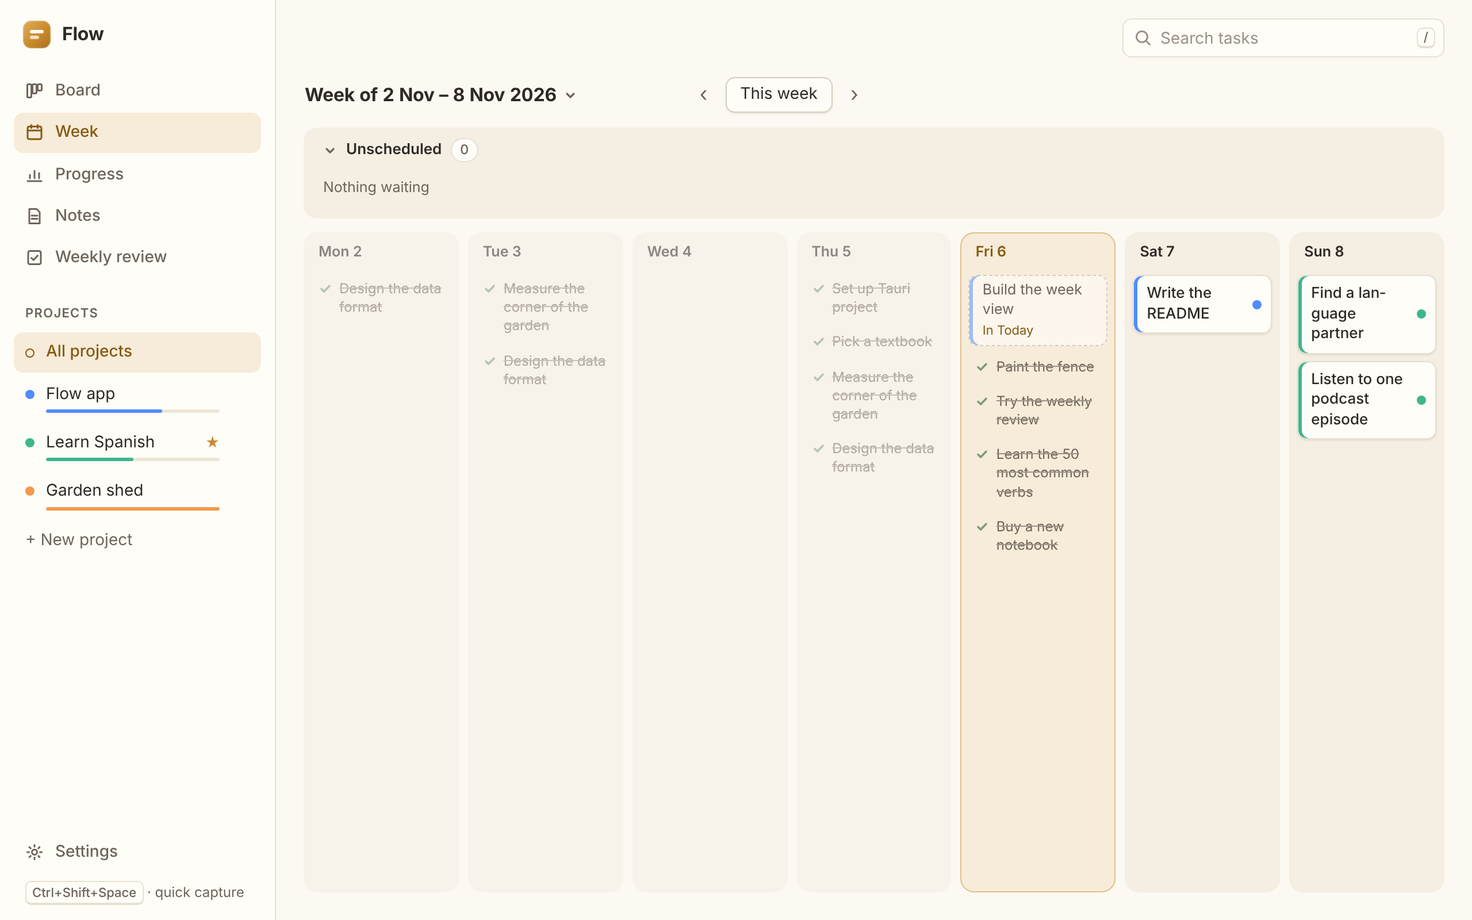
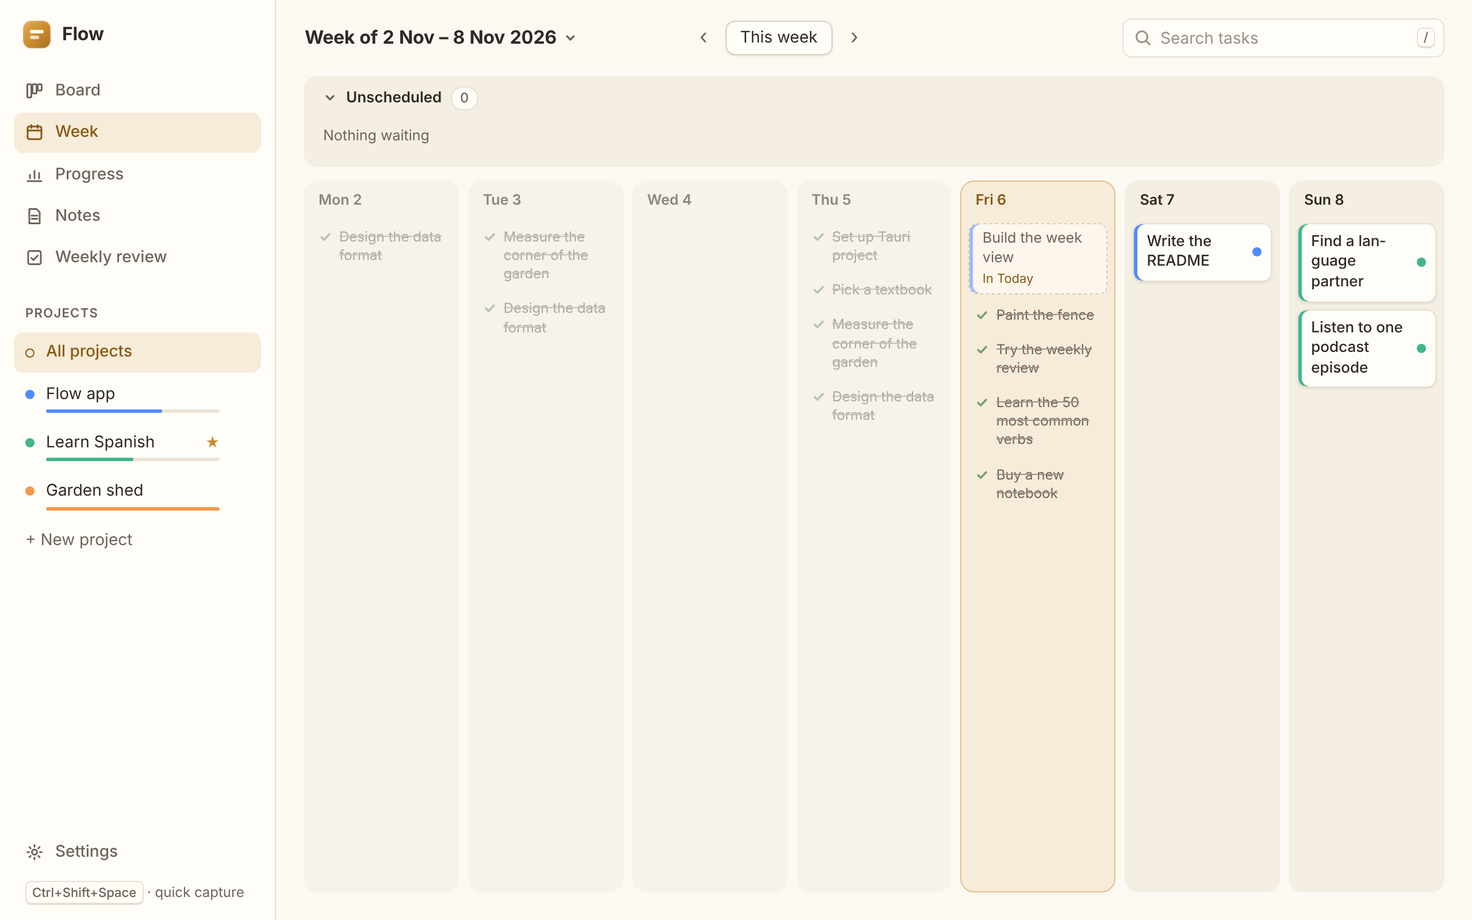
v0.2.9: week header in the top bar; full-size weekly review
The Week view's header (title with month picker, prev/This week/next) now
portals into the top bar's left slot on the search box's row, giving the week
board more height; the arrows still never move. The weekly review card fills
the main area: step 1's day boxes grow (lists scroll inside), step 2 uses a
responsive grid, steps 3-4 stay readable (max 900px), Back + Next sit together
at the bottom-right.

Claude-Session: https://claude.ai/code/session_01Voacjw55tMHdZutBvqAuuX

diff --git a/src/ui/WeekView.test.tsx b/src/ui/WeekView.test.tsx
@@ -51,6 +51,9 @@ const taskOf = (store: MemoryFileStore, path: string, id: string) => {
 
 afterEach(() => vi.useRealTimers())
 
+/** The week header (title + ‹ This week ›), which sits in the shell's top bar. */
+const head = () => within(screen.getByRole('group', { name: 'Week navigation' }))
+
 describe('promotion of scheduled tasks', () => {
   it('on load moves a task scheduled yesterday into Today, clears the date and writes once', async () => {
     const files = seed()
@@ -254,7 +257,7 @@ describe('Week view', () => {
 
   it('shows the week, today marked, scheduled and done tasks, and the Unscheduled tray', async () => {
     const { view } = await open()
-    expect(view.getByRole('heading', { name: 'Week of 2 Nov – 8 Nov 2026' })).toBeInTheDocument()
+    expect(head().getByRole('heading', { name: 'Week of 2 Nov – 8 Nov 2026' })).toBeInTheDocument()
     const days = ['Mon 2 Nov', 'Tue 3 Nov', 'Wed 4 Nov', 'Thu 5 Nov', 'Fri 6 Nov', 'Sat 7 Nov', 'Sun 8 Nov']
     for (const d of days) expect(view.getByRole('region', { name: d })).toBeInTheDocument()
     const wed = view.getByRole('region', { name: 'Wed 4 Nov' })
@@ -273,14 +276,29 @@ describe('Week view', () => {
 
   it('navigates to previous and next weeks and back to this week', async () => {
     const { user, view } = await open()
-    await user.click(view.getByRole('button', { name: 'Next week' }))
-    expect(view.getByRole('heading', { name: 'Week of 9 Nov – 15 Nov 2026' })).toBeInTheDocument()
+    await user.click(head().getByRole('button', { name: 'Next week' }))
+    expect(head().getByRole('heading', { name: 'Week of 9 Nov – 15 Nov 2026' })).toBeInTheDocument()
     expect(view.queryByRole('region', { name: 'Wed 4 Nov' })).not.toBeInTheDocument()
-    await user.click(view.getByRole('button', { name: 'Previous week' }))
-    await user.click(view.getByRole('button', { name: 'Previous week' }))
-    expect(view.getByRole('heading', { name: 'Week of 26 Oct – 1 Nov 2026' })).toBeInTheDocument()
-    await user.click(view.getByRole('button', { name: 'This week' }))
-    expect(view.getByRole('heading', { name: 'Week of 2 Nov – 8 Nov 2026' })).toBeInTheDocument()
+    await user.click(head().getByRole('button', { name: 'Previous week' }))
+    await user.click(head().getByRole('button', { name: 'Previous week' }))
+    expect(head().getByRole('heading', { name: 'Week of 26 Oct – 1 Nov 2026' })).toBeInTheDocument()
+    await user.click(head().getByRole('button', { name: 'This week' }))
+    expect(head().getByRole('heading', { name: 'Week of 2 Nov – 8 Nov 2026' })).toBeInTheDocument()
+  })
+
+  it('puts the week header in the top bar, on the search box\'s line, outside the Week region', async () => {
+    const { view } = await open()
+    const group = screen.getByRole('group', { name: 'Week navigation' })
+    expect(view.queryByRole('group', { name: 'Week navigation' })).toBeNull()
+    const bar = group.closest('.topbar') as HTMLElement
+    expect(bar).not.toBeNull()
+    expect(within(bar).getByRole('searchbox')).toBeInTheDocument()
+    expect(group.compareDocumentPosition(within(bar).getByRole('searchbox')) & Node.DOCUMENT_POSITION_FOLLOWING).toBeTruthy()
+    expect(within(group).getByRole('heading', { level: 2, name: 'Week of 2 Nov – 8 Nov 2026' })).toBeInTheDocument()
+    const nav = within(screen.getByRole('navigation', { name: 'Sidebar' }))
+    const userEv = userEvent.setup()
+    await userEv.click(nav.getByRole('button', { name: 'Board' }))
+    expect(screen.queryByRole('group', { name: 'Week navigation' })).toBeNull()
   })
 
   it("today's column also shows what is in Today, muted and labelled", async () => {
@@ -427,14 +445,14 @@ describe('Week month picker', () => {
     await screen.findByText('Buy a book')
     await user.keyboard('w')
     const view = within(await screen.findByRole('region', { name: 'Week' }))
-    const title = view.getByRole('button', { name: 'Week of 2 Nov – 8 Nov 2026' })
+    const title = head().getByRole('button', { name: 'Week of 2 Nov – 8 Nov 2026' })
     return { user, view, title }
   }
   const picker = () => screen.queryByRole('dialog', { name: 'Choose month' })
 
   it('the week title is a button that opens and closes the picker', async () => {
-    const { user, view, title } = await open()
-    expect(view.getByRole('heading', { name: 'Week of 2 Nov – 8 Nov 2026' })).toContainElement(title)
+    const { user, title } = await open()
+    expect(head().getByRole('heading', { name: 'Week of 2 Nov – 8 Nov 2026' })).toContainElement(title)
     expect(title).toHaveAttribute('aria-haspopup', 'dialog')
     expect(title).toHaveAttribute('aria-expanded', 'false')
     expect(picker()).toBeNull()
@@ -451,12 +469,12 @@ describe('Week month picker', () => {
   })
 
   it('highlights the shown week\'s month and marks today\'s month; focus starts on the shown month', async () => {
-    const { user, view, title } = await open()
-    await user.click(view.getByRole('button', { name: 'Next week' }))
-    await user.click(view.getByRole('button', { name: 'Next week' }))
-    await user.click(view.getByRole('button', { name: 'Next week' }))
-    await user.click(view.getByRole('button', { name: 'Next week' })) // 30 Nov – 6 Dec: contains 1 Dec
-    await user.click(view.getByRole('button', { name: 'Week of 30 Nov – 6 Dec 2026' }))
+    const { user, title } = await open()
+    await user.click(head().getByRole('button', { name: 'Next week' }))
+    await user.click(head().getByRole('button', { name: 'Next week' }))
+    await user.click(head().getByRole('button', { name: 'Next week' }))
+    await user.click(head().getByRole('button', { name: 'Next week' })) // 30 Nov – 6 Dec: contains 1 Dec
+    await user.click(head().getByRole('button', { name: 'Week of 30 Nov – 6 Dec 2026' }))
     const dlg = within(picker()!)
     const dec = dlg.getByRole('button', { name: 'December 2026' })
     expect(dec).toHaveAttribute('aria-current', 'true')
@@ -487,23 +505,23 @@ describe('Week month picker', () => {
     await user.click(within(picker()!).getByRole('button', { name: 'Next year' }))
     await user.click(within(picker()!).getByRole('button', { name: 'March 2027' }))
     expect(picker()).toBeNull()
-    const t = view.getByRole('button', { name: 'Week of 1 Mar – 7 Mar 2027' })
+    const t = head().getByRole('button', { name: 'Week of 1 Mar – 7 Mar 2027' })
     expect(t).toHaveFocus()
     expect(view.getByRole('region', { name: 'Mon 1 Mar' })).toBeInTheDocument()
     // Prev/next and This week still work from there.
-    await user.click(view.getByRole('button', { name: 'Previous week' }))
-    expect(view.getByRole('heading', { name: 'Week of 22 Feb – 28 Feb 2027' })).toBeInTheDocument()
-    await user.click(view.getByRole('button', { name: 'This week' }))
-    expect(view.getByRole('heading', { name: 'Week of 2 Nov – 8 Nov 2026' })).toBeInTheDocument()
+    await user.click(head().getByRole('button', { name: 'Previous week' }))
+    expect(head().getByRole('heading', { name: 'Week of 22 Feb – 28 Feb 2027' })).toBeInTheDocument()
+    await user.click(head().getByRole('button', { name: 'This week' }))
+    expect(head().getByRole('heading', { name: 'Week of 2 Nov – 8 Nov 2026' })).toBeInTheDocument()
   })
 
   it('a month whose 1st is a Sunday shows the week ending on it', async () => {
-    const { user, view, title } = await open()
+    const { user, title } = await open()
     await user.click(title)
     await user.click(within(picker()!).getByRole('button', { name: 'Previous year' })) // 2025
     await user.click(within(picker()!).getByRole('button', { name: 'June 2025' })) // Sun 1 Jun 2025
-    expect(view.getByRole('heading', { name: 'Week of 26 May – 1 Jun 2025' })).toBeInTheDocument()
-    await user.click(view.getByRole('button', { name: 'Week of 26 May – 1 Jun 2025' }))
+    expect(head().getByRole('heading', { name: 'Week of 26 May – 1 Jun 2025' })).toBeInTheDocument()
+    await user.click(head().getByRole('button', { name: 'Week of 26 May – 1 Jun 2025' }))
     expect(within(picker()!).getByRole('button', { name: 'June 2025' })).toHaveAttribute('aria-current', 'true')
   })
 
@@ -514,16 +532,16 @@ describe('Week month picker', () => {
     await user.keyboard('{Escape}')
     expect(picker()).toBeNull()
     expect(title).toHaveFocus()
-    expect(view.getByRole('heading', { name: 'Week of 2 Nov – 8 Nov 2026' })).toBeInTheDocument()
+    expect(head().getByRole('heading', { name: 'Week of 2 Nov – 8 Nov 2026' })).toBeInTheDocument()
     expect(screen.getByRole('region', { name: 'Week' })).toBeInTheDocument()
     await user.click(title)
     await user.click(view.getByRole('region', { name: 'Mon 2 Nov' }))
     expect(picker()).toBeNull()
-    expect(view.getByRole('heading', { name: 'Week of 2 Nov – 8 Nov 2026' })).toBeInTheDocument()
+    expect(head().getByRole('heading', { name: 'Week of 2 Nov – 8 Nov 2026' })).toBeInTheDocument()
   })
 
   it('keyboard: arrows move between months (across years), Enter and Space choose', async () => {
-    const { user, view, title } = await open()
+    const { user, title } = await open()
     await user.click(title)
     const dlg = within(picker()!)
     expect(dlg.getByRole('button', { name: 'November 2026' })).toHaveFocus()
@@ -537,15 +555,15 @@ describe('Week month picker', () => {
     expect(dlg.getByRole('button', { name: 'March 2027' })).toHaveFocus()
     expect(dlg.getByText('2027')).toBeInTheDocument()
     await user.keyboard('{Enter}')
-    expect(view.getByRole('heading', { name: 'Week of 1 Mar – 7 Mar 2027' })).toBeInTheDocument()
-    const t2 = view.getByRole('button', { name: 'Week of 1 Mar – 7 Mar 2027' })
+    expect(head().getByRole('heading', { name: 'Week of 1 Mar – 7 Mar 2027' })).toBeInTheDocument()
+    const t2 = head().getByRole('button', { name: 'Week of 1 Mar – 7 Mar 2027' })
     expect(t2).toHaveFocus()
     await user.keyboard('{Enter}') // reopens from the title
     expect(within(picker()!).getByRole('button', { name: 'March 2027' })).toHaveFocus()
     await user.keyboard('{ArrowLeft}{ArrowLeft}{ArrowLeft}')
     expect(within(picker()!).getByRole('button', { name: 'December 2026' })).toHaveFocus()
     await user.keyboard(' ')
-    expect(view.getByRole('heading', { name: 'Week of 30 Nov – 6 Dec 2026' })).toBeInTheDocument()
+    expect(head().getByRole('heading', { name: 'Week of 30 Nov – 6 Dec 2026' })).toBeInTheDocument()
   })
 
   it('Tab cycles inside the picker', async () => {

diff --git a/src/ui/board.css b/src/ui/board.css
@@ -654,24 +654,30 @@ input.quick-capture, input.quick-capture:focus {
 .week-done.is-overlay { background: var(--surface); border-radius: var(--radius-md); }
 
 /* ---------- Weekly review ---------- */
-.review-view { flex: 1; min-height: 0; overflow-y: auto; display: flex; justify-content: center; align-items: flex-start; padding: var(--space-4) 2px; }
-.review-card { width: 100%; max-width: 720px; background: var(--surface); border: 1px solid var(--border); border-radius: var(--radius-lg); box-shadow: var(--shadow-sm); padding: var(--space-5) var(--space-6); }
+/* The card fills the main area (the view's padding around it); long steps scroll the view. */
+.review-view { flex: 1; min-height: 0; overflow-y: auto; display: flex; flex-direction: column; padding: var(--space-2) 2px 2px; }
+.review-card {
+  flex: 1 0 auto; display: flex; flex-direction: column; width: 100%;
+  background: var(--surface); border: 1px solid var(--border); border-radius: var(--radius-lg); box-shadow: var(--shadow-sm); padding: var(--space-5) var(--space-6);
+}
 .review-steps { list-style: none; margin: 0 0 var(--space-5); padding: 0; display: flex; flex-wrap: wrap; gap: var(--space-2) var(--space-4); font-size: 12px; color: var(--text-muted); }
 .review-steps li { display: flex; align-items: center; gap: 6px; }
 .review-step-no { display: inline-grid; place-items: center; width: 20px; height: 20px; border-radius: 50%; border: 1px solid var(--border-strong); font-size: 11px; }
 .review-steps .is-past { color: var(--text-muted); }
 .review-steps .is-current { color: var(--accent-text); font-weight: 600; }
 .review-steps .is-current .review-step-no { background: var(--accent-strong); border-color: var(--accent-strong); color: var(--on-accent); }
-.review-body { min-height: 260px; }
+.review-body { flex: 1 0 auto; min-height: 260px; display: flex; flex-direction: column; }
+/* Text stays readable on a wide card; the day boxes (step 1) and the task grid (step 2) use the width. */
+.review-step-3, .review-step-4 { max-width: 900px; }
 .review-body h2 { margin: 0 0 var(--space-3); font-size: 18px; font-weight: 600; }
 .review-summary { margin: 0 0 var(--space-4); color: var(--text-muted); }
 .review-empty { color: var(--text-muted); }
-.review-days { display: grid; grid-template-columns: repeat(7, minmax(0, 1fr)); gap: var(--space-2); }
-.review-day { background: var(--surface-2); border-radius: var(--radius-md); padding: var(--space-2) var(--space-3); min-height: 96px; }
-.review-day-head { display: flex; justify-content: space-between; font-size: 12px; font-weight: 600; margin-bottom: var(--space-1); }
-.review-day ul { list-style: none; margin: 0; padding: 0; display: flex; flex-direction: column; gap: 2px; }
-.review-day li { font-size: 12px; line-height: 1.35; overflow-wrap: anywhere; }
-.review-rows { list-style: none; margin: 0; padding: 0; display: flex; flex-direction: column; gap: var(--space-3); }
+.review-days { flex: 1 1 0; min-height: 240px; display: grid; grid-template-columns: repeat(7, minmax(0, 1fr)); grid-template-rows: minmax(0, 1fr); gap: var(--space-2); }
+.review-day { background: var(--surface-2); border-radius: var(--radius-md); padding: var(--space-2) var(--space-3); min-height: 0; display: flex; flex-direction: column; }
+.review-day-head { display: flex; justify-content: space-between; font-size: 13px; font-weight: 600; margin-bottom: var(--space-1); }
+.review-day ul { flex: 1; min-height: 0; overflow-y: auto; list-style: none; margin: 0; padding: 0; display: flex; flex-direction: column; gap: 4px; }
+.review-day li { font-size: 13px; line-height: 1.4; overflow-wrap: anywhere; }
+.review-rows { list-style: none; margin: 0; padding: 0; display: grid; grid-template-columns: repeat(auto-fill, minmax(min(100%, 380px), 1fr)); align-items: start; gap: var(--space-3); }
 .review-row { background: var(--surface-2); border-radius: var(--radius-md); padding: var(--space-3); }
 .review-row-title { display: flex; align-items: center; gap: var(--space-2); margin-bottom: var(--space-2); }
 .review-project { margin-left: auto; font-size: 12px; color: var(--text-muted); }
@@ -680,15 +686,15 @@ input.quick-capture, input.quick-capture:focus {
 .review-row-actions .btn[aria-pressed="true"] { background: var(--accent-soft); border-color: var(--accent); color: var(--accent-text); }
 .review-delete { color: var(--danger); }
 .review-outcome { margin-top: var(--space-2); font-size: 12px; color: var(--text-muted); }
-.review-focus { border: 0; margin: 0 0 var(--space-4); padding: 0; display: flex; flex-direction: column; gap: var(--space-2); }
+.review-focus { border: 0; margin: 0 0 var(--space-4); padding: 0; display: grid; grid-template-columns: repeat(auto-fill, minmax(200px, 1fr)); gap: var(--space-1) var(--space-2); }
 .review-focus legend { padding: 0; margin-bottom: var(--space-2); font-size: 12px; color: var(--text-muted); }
 .review-option { display: flex; align-items: center; gap: var(--space-2); padding: 6px var(--space-3); border-radius: var(--radius-md); cursor: pointer; }
 .review-option:hover { background: var(--surface-2); }
 .review-field { display: flex; flex-direction: column; gap: 6px; font-size: 12px; color: var(--text-muted); }
 .review-field input { font-size: 14px; padding: var(--space-2) var(--space-3); }
-.review-reflection { width: 100%; min-height: 180px; resize: vertical; font: inherit; line-height: 1.5; padding: var(--space-3); }
+.review-reflection { width: 100%; flex: 1 0 180px; min-height: 180px; max-height: 60vh; resize: vertical; font: inherit; line-height: 1.5; padding: var(--space-3); }
 .review-ai { display: flex; flex-wrap: wrap; align-items: center; gap: var(--space-2); margin-top: var(--space-3); }
-.review-nav { display: flex; justify-content: space-between; margin-top: var(--space-5); }
+.review-nav { display: flex; justify-content: flex-end; gap: var(--space-2); margin-top: var(--space-5); }
 .focus-star { margin-left: 4px; color: var(--accent); font-size: 12px; }
 .review-hint { margin: 0 0 var(--space-3); font-size: 12px; color: var(--text-muted); }
 .progress-ai { margin-top: 0; }

diff --git a/src/ui/WeekView.tsx b/src/ui/WeekView.tsx
@@ -1,4 +1,5 @@
 import { useRef, useState, type CSSProperties } from 'react'
+import { createPortal } from 'react-dom'
 import {
   DndContext, DragOverlay, PointerSensor, useDraggable, useDroppable, useSensor, useSensors,
   type DragEndEvent, type DragStartEvent,
@@ -223,9 +224,14 @@ interface Props {
   /** Whether the Unscheduled drawer shows its cards (local setting `weekTrayOpen`). */
   trayOpen?: boolean
   onToggleTray?: () => void
+  /**
+   * Where the week header (title + ‹ This week ›) goes: the shell's top bar, on the search box's
+   * line. Without one (or before it mounts) the header renders at the top of the view.
+   */
+  headerSlot?: HTMLElement | null
 }
 
-export default function WeekView({ flow, trayOpen = true, onToggleTray }: Props) {
+export default function WeekView({ flow, trayOpen = true, onToggleTray, headerSlot }: Props) {
   const { data, today, filter } = flow
   const [offset, setOffset] = useState(0)
   const [dragging, setDragging] = useState<DragItem | null>(null)
@@ -248,20 +254,24 @@ export default function WeekView({ flow, trayOpen = true, onToggleTray }: Props)
     if (e.over) handleWeekDrop({ cardKey: ref, target: String(e.over.id) }, { flow, today })
   }
 
+  const header = (
+    <header className="week-head" role="group" aria-label="Week navigation">
+      <WeekTitle
+        start={start} today={today}
+        // The week (Mon–Sun) containing the 1st, kept as an offset from this week.
+        onChooseMonth={(first) => setOffset(Math.round(daysBetween(weekStart(today), weekStart(first)) / 7))}
+      />
+      <div className="week-nav">
+        <button type="button" className="icon-btn" aria-label="Previous week" onClick={() => setOffset((o) => o - 1)}>‹</button>
+        <button type="button" className="btn" onClick={() => setOffset(0)}>This week</button>
+        <button type="button" className="icon-btn" aria-label="Next week" onClick={() => setOffset((o) => o + 1)}>›</button>
+      </div>
+    </header>
+  )
+
   return (
     <section className="week-view" aria-label="Week">
-      <header className="week-head">
-        <WeekTitle
-          start={start} today={today}
-          // The week (Mon–Sun) containing the 1st, kept as an offset from this week.
-          onChooseMonth={(first) => setOffset(Math.round(daysBetween(weekStart(today), weekStart(first)) / 7))}
-        />
-        <div className="week-nav">
-          <button type="button" className="icon-btn" aria-label="Previous week" onClick={() => setOffset((o) => o - 1)}>‹</button>
-          <button type="button" className="btn" onClick={() => setOffset(0)}>This week</button>
-          <button type="button" className="icon-btn" aria-label="Next week" onClick={() => setOffset((o) => o + 1)}>›</button>
-        </div>
-      </header>
+      {headerSlot ? createPortal(header, headerSlot) : header}
       <DndContext sensors={sensors} onDragStart={onDragStart} onDragEnd={onDragEnd} onDragCancel={() => setDragging(null)}>
         <div className="week-board">
           <Tray cards={plan.unscheduled} open={trayOpen} onToggle={() => onToggleTray?.()} />

diff --git a/src/ui/Board.tsx b/src/ui/Board.tsx
@@ -281,6 +281,9 @@ export default function Board({ store, settings, now, onReady, ai, shortcut }: P
     return () => window.removeEventListener('keydown', onKey)
   }, [setView, todoVisible])
 
+  // The top bar's left slot: the project header on the Board, the week header on Week.
+  const [headerSlot, setHeaderSlot] = useState<HTMLDivElement | null>(null)
+
   if (!data) return <div className="app loading"><span className="brand-name">Flow</span></div>
 
   const all = Object.values(data.projects)
@@ -338,7 +341,7 @@ export default function Board({ store, settings, now, onReady, ai, shortcut }: P
       />
       <main className="main">
         <div className="topbar">
-          <div className="header-slot">
+          <div className="header-slot" ref={setHeaderSlot}>
             {showHeader && focused && (
               <ProjectHeader
                 project={focused}
@@ -379,7 +382,7 @@ export default function Board({ store, settings, now, onReady, ai, shortcut }: P
               onToggleDone={toggleDone}
             />
           ) : view === 'week' ? (
-            <WeekView flow={flow} trayOpen={trayOpen} onToggleTray={toggleTray} />
+            <WeekView flow={flow} trayOpen={trayOpen} onToggleTray={toggleTray} headerSlot={headerSlot} />
           ) : view === 'notes' ? (
             <NotesView data={data} apply={apply} initial={filter} />
           ) : view === 'review' ? (

diff --git a/src/ui/WeeklyReview.tsx b/src/ui/WeeklyReview.tsx
@@ -194,14 +194,14 @@ export default function WeeklyReview({ data, today, apply, onFinish, aiSlot }: P
             </li>
           ))}
         </ol>
-        <div className="review-body">
+        <div className={`review-body review-step-${step + 1}`}>
           {step === 0 && <YourWeek data={data} today={today} />}
           {step === 1 && <Unfinished data={data} today={today} apply={apply} />}
           {step === 2 && <NextWeek data={data} week={week} apply={apply} />}
           {step === 3 && <Reflect data={data} today={today} week={week} apply={apply} aiSlot={aiSlot} />}
         </div>
         <div className="review-nav">
-          {step > 0 ? <button type="button" className="btn" onClick={() => setStep(step - 1)}>Back</button> : <span />}
+          {step > 0 && <button type="button" className="btn" onClick={() => setStep(step - 1)}>Back</button>}
           {step < 3
             ? <button type="button" className="btn primary" onClick={() => setStep(step + 1)}>Next</button>
             : <button type="button" className="btn primary" onClick={onFinish}>Finish</button>}

diff --git a/src/ui/WeeklyReview.test.tsx b/src/ui/WeeklyReview.test.tsx
@@ -58,6 +58,19 @@ describe('WeeklyReview', () => {
     expect(view.getByText('25 min focused')).toBeInTheDocument()
   })
 
+  it('Back and Next sit together at the end of the card, after the step content', async () => {
+    const { user } = await setup()
+    const region = await open(user)
+    const navOf = (name: string) => screen.getByRole('button', { name }).parentElement!
+    expect(screen.queryByRole('button', { name: 'Back' })).toBeNull()
+    expect(region.querySelector('.review-card')!.lastElementChild).toBe(navOf('Next'))
+    await next(user)
+    const nav = navOf('Next')
+    expect(navOf('Back')).toBe(nav)
+    expect([...nav.children].map((b) => b.textContent)).toEqual(['Back', 'Next'])
+    expect(region.querySelector('.review-card')!.lastElementChild).toBe(nav)
+  })
+
   it('step 2 lists Today and this week\'s scheduled tasks only; Back returns to step 1', async () => {
     const { user } = await setup()
     await open(user)

diff --git a/CLAUDE.md b/CLAUDE.md
@@ -86,13 +86,18 @@ Data is Markdown files with YAML frontmatter in a user-chosen folder. See
   then `FileStore.remove`s the original (never if the copy failed; failures → one log line, project
   stays); only then `deleteProject` (projects.ts) drops it from FlowData. Days/inbox untouched;
   focus filter and lastProject cleared. loadFlow never reads `deleted/`.
-- Week header (v0.2.9): the title is a button (aria-haspopup="dialog") inside the h2; its text shares a
+- Week header (v0.2.9): WeekView portals its header (group "Week navigation": h2 title + ‹ This week ›)
+  into the top bar's left `header-slot` (Board.tsx `headerSlot`), on the search box's row; other
+  views' top bar is unchanged. The title is a button (aria-haspopup="dialog") inside the h2; its text shares a
   grid cell with an invisible sizer (`TITLE_SIZER`, tabular digits) so ‹ This week › never move. It
   opens `MonthPicker` (dialog "Choose month": year with ↑ Previous year / ↓ Next year, 4×3 months,
   aria-label "November 2026"; aria-current = month of the shown week's Sunday, `.is-today` = today's
   month). Choosing a month shows the week containing its 1st (kept as the week `offset`). Arrows move
   (±1/±4, across years), Enter/Space choose, Escape/outside click close, Tab cycles; keys never reach
   app shortcuts while it is open; focus returns to the title.
+- Weekly review (v0.2.9): the card fills the main area (flex column; Back + Next together at its
+  bottom-right). Step 1's seven day boxes fill the card (each list scrolls inside its box); step 2's
+  rows are a responsive grid; steps 3–4 content is at most 900px wide.
 - Tomorrow column = no new state: it is `scheduled === today + 1`. Drops onto it schedule tomorrow
   (Done tasks reopen first); Tomorrow → To do clears the date.
 - Promoting a Parking lot item (v0.2.8): dropping it on To do / Today / Tomorrow / the Done bar
